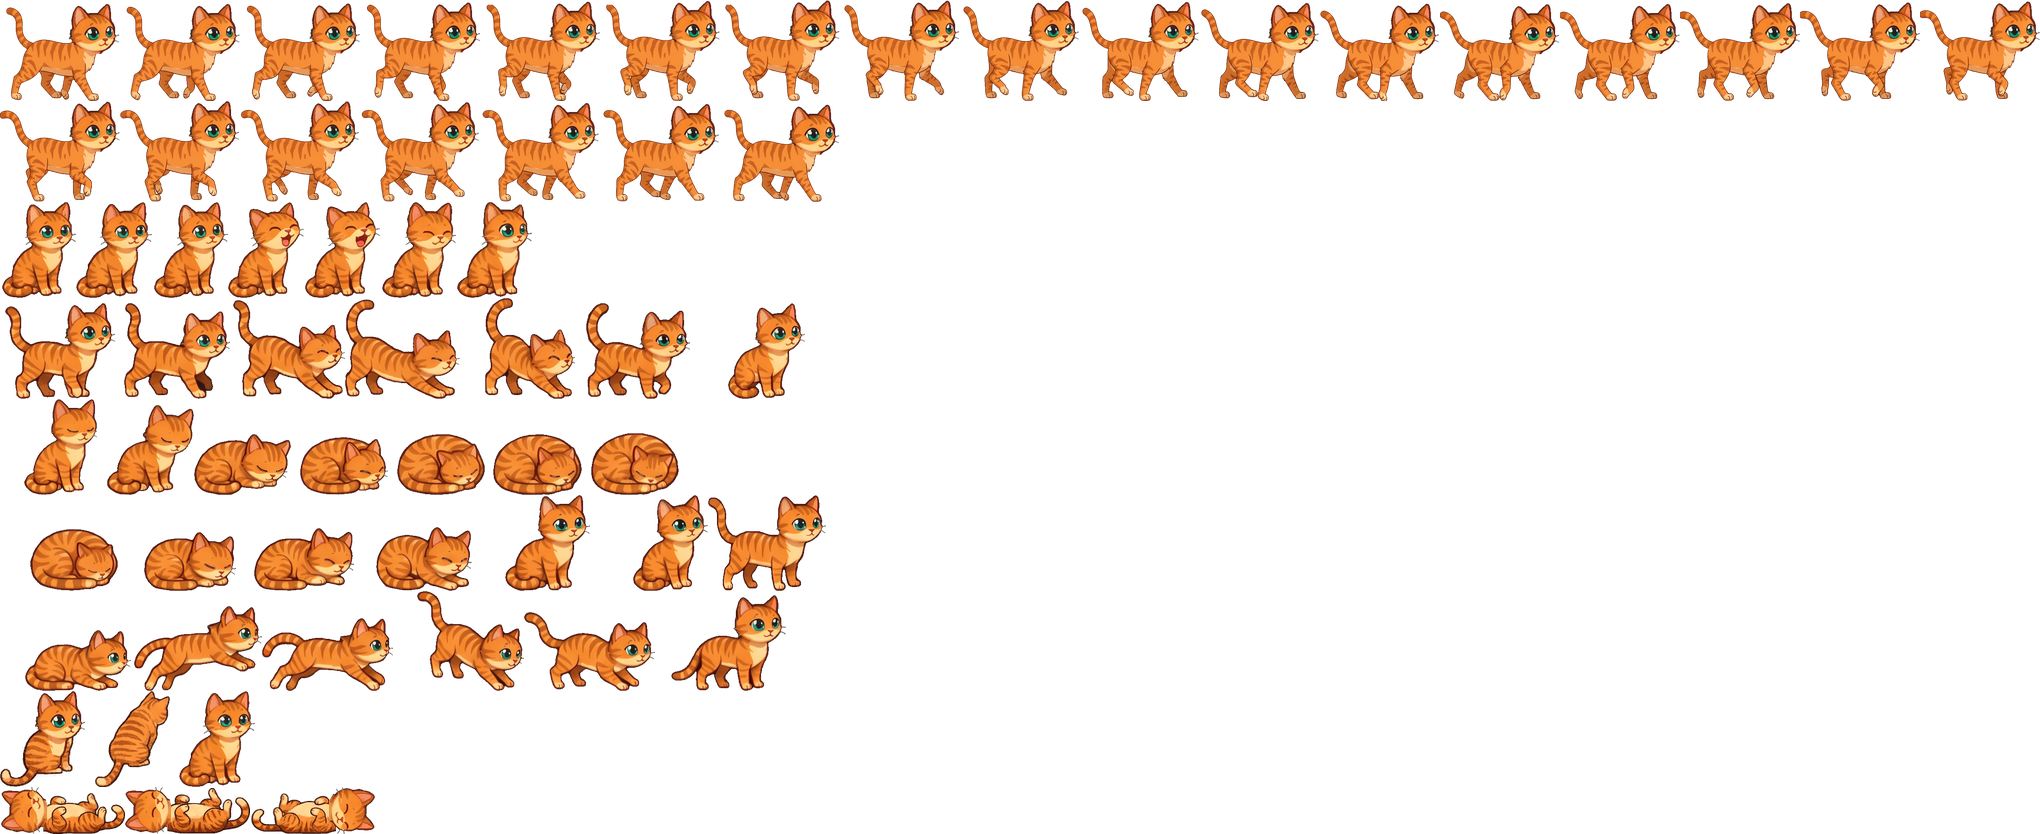
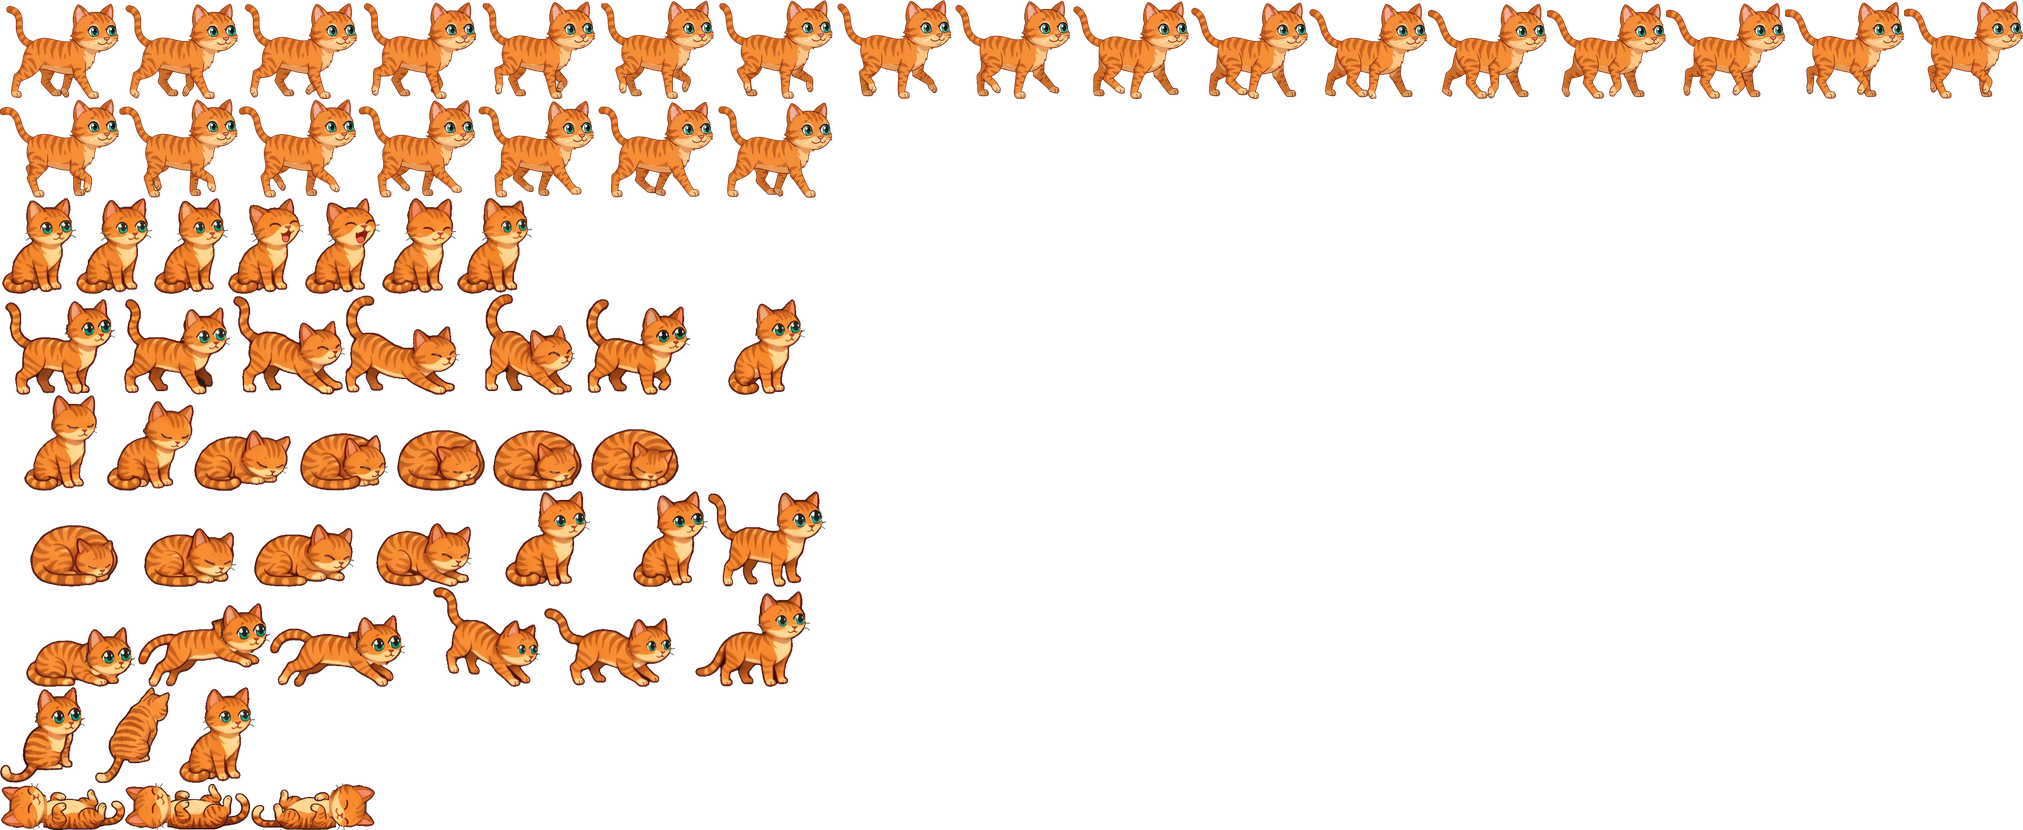
Balance cat eyes across poses and restore filmed walking face

Changed region(s): [[0.0, 0.0, 1.0, 1.0]]

diff --git a/tools/cat_style.py b/tools/cat_style.py
@@ -1,7 +1,8 @@
 """Retarget the existing raster artwork to the stretch row's character.
 
-No generated drawings are used: the walking and legacy heads are composited
-from the artist's sheet, while the video's body and contact timing are kept.
+No generated drawings are used. The filmed walking head keeps its viewing
+angle, while legacy heads come from the artist's sheet. Open eyes are balanced
+as a pair; the video's body and contact timing are kept.
 Coordinates below are landmarks in the supplied, unscaled source artwork.
 Requires numpy, Pillow and OpenCV in addition to make_cat.py's dependencies.
 """
@@ -62,6 +63,82 @@ def cream_centre(im):
     return np.median(a[..., :3][mask], axis=0) if mask.sum() > 10 else np.array([248, 211, 153])
 
 
+def eye_features(im):
+    """Find the two whole eyes, including pupils, whites and dark outlines."""
+    a = np.asarray(im.convert('RGBA'))
+    hsv = cv2.cvtColor(a[..., :3], cv2.COLOR_RGB2HSV)
+    iris = ((hsv[..., 0] >= 37) & (hsv[..., 0] < 100)
+            & (hsv[..., 1] > 65) & (a[..., 3] > 180)).astype(np.uint8)
+    _, labels, stats, _ = cv2.connectedComponentsWithStats(iris, 8)
+    candidates = [i for i in range(1, len(stats)) if stats[i, 4] >= 8]
+    candidates = sorted(candidates, key=lambda i: stats[i, 4], reverse=True)[:2]
+    if len(candidates) != 2:
+        return []  # closed eyes and a face turned fully away are intentional
+    candidates.sort(key=lambda i: stats[i, 0])
+    if stats[candidates[1], 0] - stats[candidates[0], 0] < 8:
+        return []
+    result = []
+    for i in candidates:
+        x, y, w, h, _ = stats[i]
+        box = (max(0, int(x - .8 * w)), max(0, int(y - 1.6 * h)),
+               min(im.width, int(x + 1.8 * w)), min(im.height, int(y + 1.3 * h)))
+        hh = hsv[box[1]:box[3], box[0]:box[2]]
+        seed = labels[box[1]:box[3], box[0]:box[2]] == i
+        feature = (seed | (hh[..., 2] < 95)
+                   | ((hh[..., 1] < 65) & (hh[..., 2] > 150))).astype(np.uint8)
+        _, components, _, _ = cv2.connectedComponentsWithStats(feature, 8)
+        overlap = np.bincount(components[seed], minlength=components.max() + 1)
+        overlap[0] = 0
+        mask = (components == overlap.argmax()).astype(np.uint8) * 255
+        mask = cv2.dilate(mask, np.ones((3, 3), np.uint8))
+        bounds = Image.fromarray(mask).getbbox()
+        x0, y0, x1, y1 = bounds
+        whole = (box[0] + x0, box[1] + y0, box[0] + x1, box[1] + y1)
+        patch = im.crop(whole).copy()
+        alpha = Image.fromarray(mask[y0:y1, x0:x1]).filter(ImageFilter.GaussianBlur(.5))
+        patch.putalpha(alpha)
+        result.append((whole, patch))
+    return result
+
+
+def balance_eyes(im):
+    """Give both visible eyes one apparent size without altering closed poses.
+
+    Reuse the larger eye's actual painted feature for both sides, at their
+    average size. Inpaint the previous features before compositing so shrinking
+    the near eye cannot leave a second outline or pupil behind it.
+    """
+    features = eye_features(im)
+    if len(features) != 2:
+        return im
+    a = np.asarray(im.convert('RGBA')).copy()
+    source = max(features, key=lambda f: f[1].width * f[1].height)[1]
+    target = tuple(round(sum(f[1].size[k] for f in features) / 2) for k in range(2))
+    mask = np.zeros(a.shape[:2], np.uint8)
+    for (x0, y0, x1, y1), patch in features:
+        mask[y0:y1, x0:x1] |= np.asarray(patch.getchannel('A'))
+    mask = cv2.dilate((mask > 8).astype(np.uint8) * 255, np.ones((3, 3), np.uint8))
+    a[..., :3] = cv2.inpaint(a[..., :3], mask, 3, cv2.INPAINT_TELEA)
+    out = Image.fromarray(a, 'RGBA')
+    eye = source.convert('RGBa').resize(target, Image.Resampling.LANCZOS).convert('RGBA')
+    for (x0, y0, x1, y1), _ in features:
+        x = round((x0 + x1 - target[0]) / 2)
+        y = round((y0 + y1 - target[1]) / 2)
+        # Keep the far eye inside the cheek contour instead of cropping it.
+        for shift in range(max(1, round(target[0] * .35))):
+            xx = x - shift
+            if xx < 0 or y < 0 or xx + target[0] > im.width or y + target[1] > im.height:
+                continue
+            background = a[y:y + target[1], xx:xx + target[0], 3]
+            solid = np.asarray(eye.getchannel('A')) > 180
+            if np.mean(background[solid] > 128) > .995:
+                x = xx
+                break
+        out.alpha_composite(eye, (x, y))
+    out.putalpha(im.getchannel('A'))
+    return out
+
+
 class Palette:
     def __init__(self, reference):
         self.fur = fur_centres(reference)
@@ -95,15 +172,29 @@ class Palette:
         rgb[eye] = cv2.cvtColor(recoloured, cv2.COLOR_HSV2RGB)[eye]
         a[..., :3] = np.clip(rgb, 0, 255).astype(np.uint8)
         a[a[..., 3] == 0] = 0
-        return Image.fromarray(a, 'RGBA')
+        return balance_eyes(Image.fromarray(a, 'RGBA'))
 
 
 def normalize_sheet(rows, palette, scale):
+    paired_head = head_from_stand(palette.match(rows[1][0]))
     out = []
     for row_index, row in enumerate(rows[:5]):
         normal = []
         for i, frame in enumerate(row):
             frame = palette.match(trim(frame))
+            if row_index == 4 and i < 3:
+                # These three drawings are almost in profile and have only one
+                # painted iris. Use the balanced reference face so the second
+                # eye is actually visible instead of enlarging a nonexistent eye.
+                left, anchor = [(135, 184), (183, 236), (190, 242)][i]
+                a = np.asarray(frame).copy()
+                # The larger reference face covers the old face completely.
+                # Keep the shoulder/neck underneath; only old ear tips need removal.
+                a[:34, left:] = 0
+                canvas = Image.new('RGBA', (frame.width + 64, frame.height + 64))
+                canvas.alpha_composite(Image.fromarray(a), (32, 32))
+                canvas.alpha_composite(paired_head, (32 + anchor - 187, 34))
+                frame = trim(canvas)
             if row_index == 3 and i == 6:
                 # The drawn waking stand has an unusually long torso. Compress
                 # its body alone so the face keeps the reference proportions.
@@ -140,7 +231,7 @@ def normalize_sheet(rows, palette, scale):
 
 
 def retarget_walk(frames, stand, palette, scale):
-    """Use one reference head, tracking the filmed neck through the whole cycle.
+    """Use the filmed face angle, with balanced eyes and a reference-sized head.
 
     Body transforms and palette are shared by all frames. No per-frame crop or
     per-frame scale can make the cat grow/shrink or move its planted paws.
@@ -149,7 +240,19 @@ def retarget_walk(frames, stand, palette, scale):
     reference = np.asarray(frames[0].convert('RGB'))
     template = cv2.cvtColor(reference[60:245, 500:690], cv2.COLOR_RGB2GRAY)
     src_fur, src_cream = fur_centres(frames[0]), cream_centre(frames[0])
-    head = head_from_stand(palette.match(stand))
+    # The video has the requested, more frontal viewing angle. Keep its muzzle,
+    # ears and eye placement, but match the stretch cat's palette and head width.
+    head = palette.match(frames[0], src_fur, src_cream)
+    mask = polygon_mask(head.size, [
+        (480, 45), (head.width, 45), (head.width, 245),
+        (675, 267), (620, 275), (575, 272), (535, 255), (510, 239), (480, 212),
+    ])
+    alpha = np.minimum(np.asarray(head.getchannel('A')), np.asarray(mask))
+    alpha = cv2.erode(alpha, np.ones((3, 3), np.uint8))
+    head.putalpha(Image.fromarray(alpha).filter(ImageFilter.GaussianBlur(.45)))
+    head = head.crop((480, 45, 705, 275))
+    reference_width = head_from_stand(stand).getchannel('A').getbbox()
+    head_scale = (reference_width[2] - reference_width[0]) * scale / head.width
     # Body length relative to the sheet's shorter, kitten-like torso.
     sy, sx = 96 / frames[0].height, 96 / frames[0].height * .9
     ss = 4
@@ -177,10 +280,11 @@ def retarget_walk(frames, stand, palette, scale):
         canvas = Image.new('RGBA', (560, 460))
         origin = (24, 32)
         canvas.alpha_composite(body, origin)
-        replacement = scaled(head, scale * ss)
-        # Neck anchors: (187, 109) on the sheet; (590, 274) in video frame 78.
-        hx = origin[0] + round(((590 + dx) * sx - 187 * scale) * ss)
-        hy = origin[1] + round(((274 + dy) * sy - 109 * scale) * ss)
+        replacement = scaled(head, head_scale * ss)
+        # The cropped video head's neck is (110, 229). A slightly lower body
+        # anchor accommodates its taller face while retaining the existing scale.
+        hx = origin[0] + round(((590 + dx) * sx - 110 * head_scale) * ss)
+        hy = origin[1] + round(((285 + dy) * sy - 229 * head_scale) * ss)
         canvas.alpha_composite(replacement, (hx, hy))
         rendered.append(canvas)
     union = np.maximum.reduce([np.asarray(f.getchannel('A')) for f in rendered])

diff --git a/tools/preview_cat.py b/tools/preview_cat.py
@@ -48,6 +48,27 @@ def sprites(image, meta):
     return out
 
 
+def check_eye_pairs(frames):
+    """Measure the rendered irises, independently of the editing masks."""
+    expected = {'walk': range(24), 'sit': [0, 1, 2, 6], 'stretch': [0, 1, 5, 6],
+                'wake': [4, 5, 6], 'jump': range(6), 'lookback': [0, 2]}
+    count, maximum = 0, 0
+    for name, indices in expected.items():
+        for i in indices:
+            a = np.asarray(frames[name][i])
+            hsv = cv2.cvtColor(a[..., :3], cv2.COLOR_RGB2HSV)
+            mask = ((hsv[..., 0] >= 37) & (hsv[..., 0] < 100)
+                    & (hsv[..., 1] > 65) & (a[..., 3] > 180)).astype(np.uint8)
+            _, _, stats, _ = cv2.connectedComponentsWithStats(mask, 8)
+            eyes = sorted([s for s in stats[1:] if s[4] >= 4], key=lambda s: s[4], reverse=True)[:2]
+            assert len(eyes) == 2, f'{name}:{i} must show both eyes'
+            difference = max(abs(int(eyes[0][k]) - int(eyes[1][k])) for k in (2, 3))
+            assert difference <= 1, f'{name}:{i} eye sizes differ by {difference} atlas pixels'
+            count += 1
+            maximum = max(maximum, difference)
+    return {'open_eye_frames_checked': count, 'maximum_iris_size_difference_screen_px': maximum / 2}
+
+
 def text(im, xy, value, small=False):
     ImageDraw.Draw(im).text(xy, value, fill=(225, 228, 234), font=SMALL if small else FONT)
 
@@ -101,6 +122,7 @@ def main(before_png, before_json, video, output):
     meta = json.loads((ROOT / 'frontend/src/catframes.json').read_text())
     oldmeta = json.loads(Path(before_json).read_text())
     frames = sprites(ROOT / 'frontend/src/assets/cat.png', meta)
+    eye_report = check_eye_pairs(frames)
     before = sprites(before_png, oldmeta)
     filmed = video_samples(video)
     shutil.copyfile(ROOT / 'frontend/src/assets/cat.png', output / 'cat.png')
@@ -221,6 +243,7 @@ if(png.complete&&before.complete){draw(before,old,'수정 전',0,i);draw(png,met
         'standing_height_atlas_px': frames['stretch'][0].getchannel('A').getbbox()[3]
                                    - frames['stretch'][0].getchannel('A').getbbox()[1],
         'art_method': 'existing raster composites and colour/geometry correction; no AI image generation',
+        **eye_report,
     }
     (output / 'validation.json').write_text(json.dumps(report, ensure_ascii=False, indent=2), encoding='utf-8')
     print(json.dumps(report, ensure_ascii=False, indent=2))

diff --git a/tools/make_cat.py b/tools/make_cat.py
@@ -25,8 +25,9 @@ apart. The video's cat is cut out of the grey by its colour; holes in it
 are filled only when small (eye glints), not the grey between the legs.
 The stretch row defines the character's colour and proportions. Its standing
 cat is 96 px tall (twice its 48 px on screen). tools/cat_style.py matches every
-pose to it and replaces the walking/legacy heads with the sheet's artwork.
-The filmed legs and their contact timing are retained. Every frame
+pose to it. The walking head retains the video's viewing angle with balanced
+eyes; legacy heads use the sheet's artwork. The filmed legs and their contact
+timing are retained. Every frame
 stands on the bottom of its action's box with its nose on the right edge:
 the app keeps the nose put from frame to frame (the sheet's frames sit
 loosely in their cells, so where they were drawn says nothing).

diff --git a/docs/cat-artwork.md b/docs/cat-artwork.md
@@ -6,8 +6,12 @@
 
 외형 기준은 원본 이미지의 두 번째 줄, 기지개 동작의 서 있는 고양이입니다.
 걷기는 원본 영상의 78~101번 프레임을 사용합니다. 다리 순서와 접지 시점을
-유지하면서 몸통 길이를 조정하고, 기준 이미지의 얼굴을 목 움직임에 맞춰 합성합니다.
-얼굴과 몸통의 배율은 전체 24프레임에서 고정합니다.
+유지하면서 몸통 길이를 조정합니다. 걷는 얼굴은 영상처럼 두 눈이 잘 보이는 각도를
+유지하고, 기준 이미지의 얼굴 크기와 털색에 맞춰 목 움직임을 따라 합성합니다.
+얼굴과 몸통의 배율은 전체 24프레임에서 고정합니다. 눈을 뜬 자세는 가까운 눈과
+먼 눈을 같은 표시 크기로 보정합니다. 기존 눈을 지우고 같은 눈 그림을 양쪽에
+사용해 눈동자와 윤곽선이 겹치지 않도록 하며, 얼굴 밖으로 잘리지 않게 배치합니다.
+하품·수면 등 눈을 감는 표정과 완전한 뒷모습은 그대로 유지합니다.
 
 다른 동작도 털·줄무늬·크림색 부위를 구분해 기준 색상에 맞춥니다.
 앉거나 서 있는 자세는 높이를 맞추고, 웅크린 수면 프레임의 크기 변화를 줄입니다.
@@ -40,8 +44,10 @@ npm run test:e2e -- cat.spec.ts
 - `all-actions.mp4`, `all-actions.gif`: 전체 동작과 자세 전환 확인
 - `all-poses.png`, `walk-24-frames.png`: 같은 배율과 바닥선을 사용하는 프레임 목록
 - `frames/`: 앱에 반영한 각 동작의 투명 PNG
-- `validation.json`: 프레임 수·아틀라스 범위·접지 이동량 검사 결과
+- `validation.json`: 프레임 수·아틀라스 범위·접지 이동량·좌우 눈동자 크기 검사 결과
 
 영상과 GIF의 확대 표시는 외형 검토용입니다. 앱의 기지개·수면·점프 재생 시간,
 입력 반응, 끌기와 Lua 기능은 브라우저 테스트로 별도 확인합니다.
 접지 이동량 검사는 바닥에 닿은 발의 픽셀 범위에서 구한 근사치입니다.
+눈을 뜬 43프레임은 최종 아틀라스에서 양쪽 눈동자의 가로·세로 크기를 검사합니다.
+래스터 축소로 생기는 차이는 아틀라스 1px, 앱 표시 크기 0.5px까지 허용합니다.
